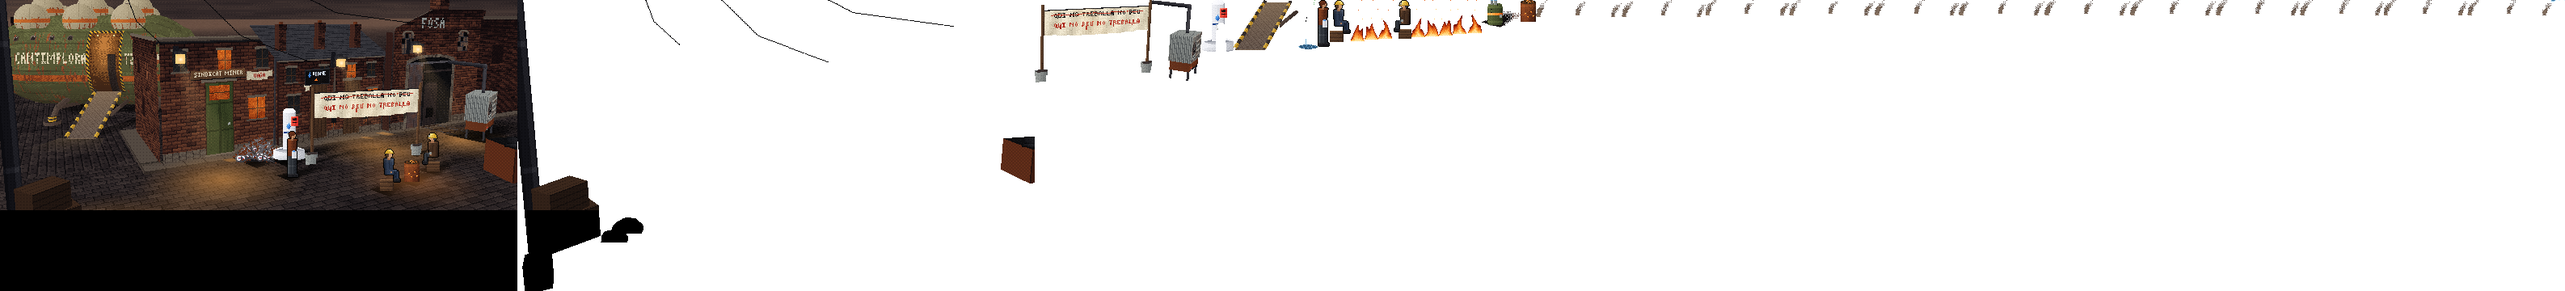
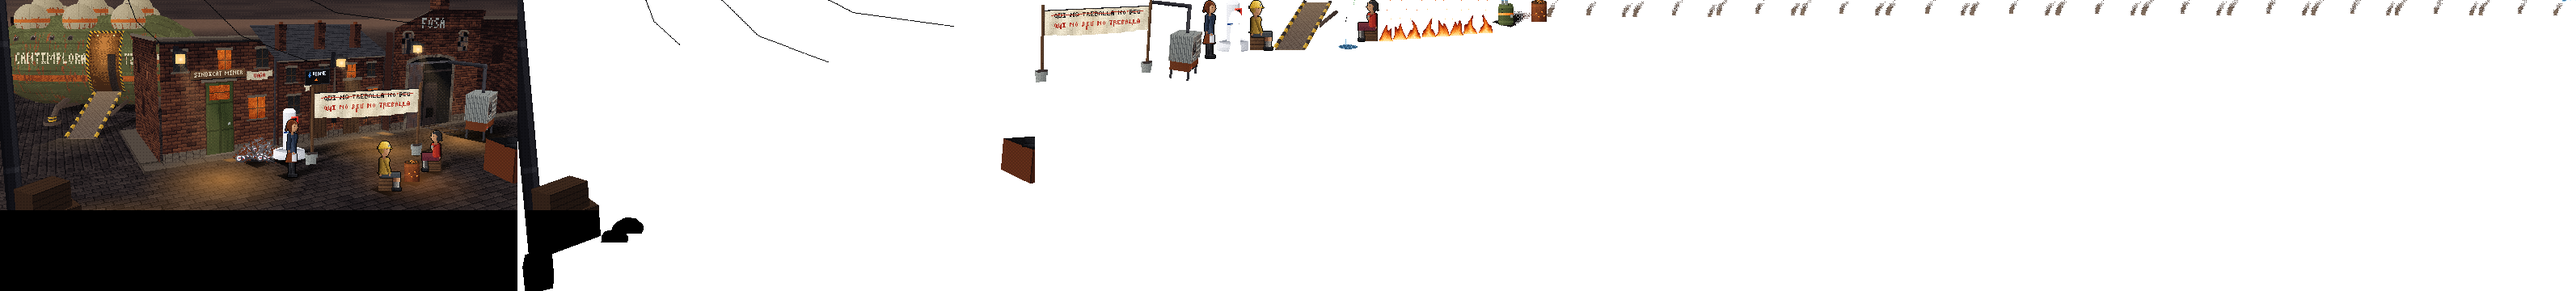
Aigua Verne: la canalla del piquet, redibuixada a la mida dels personatges
Les criatures del piquet (ferrum_carrer) es feien amb el miner_c vell a 54–58 px: semblaven miners en
miniatura al costat de l'Iri i la Rosa (≈98 px). Ara són persona_c de ferrum_gent (nen/nena) a ≈0,7 d'un
adult, amb el cap més gran i el cos prim, i persona sap seure (seated=True: el maluc al seient, les cuixes
endavant). Paràmetres nous cap i ample per a les proporcions; per defecte no canvia res (postcrèdits igual).

diff --git a/games/aigua-verne/adapters/benne/tools/hd640/rooms/ferrum_gent.py b/games/aigua-verne/adapters/benne/tools/hd640/rooms/ferrum_gent.py
@@ -41,13 +41,16 @@ _CABELL = (COAL, PLANKF, RUSTF, IRONF, MUSTARD)
 _PELL = (SKINF, SKINF, SKINF)
 
 
+SEIENT = 0.25                                                         # l'alçada d'una caixa per seure, per h
+
+
 def _row(cv, y, xa, xb, ramp, lvl):
     for x in range(int(round(xa)), int(round(xb)) + 1):
         cv.put(x, y, ramp, lvl(x) if callable(lvl) else lvl)
 
 
 def persona(cv, x, yf, h=80, facing=-1, var=0, tipus='miner', hold=None, light_from=1, casc=None, lamp=True,
-            cua=False, mocador=None):
+            cua=False, mocador=None, seated=False, cap=None, ample=None):
     s = h / 80.0
     f, lf = facing, light_from
     nen = tipus in ('nen', 'nena')
@@ -62,17 +65,20 @@ def persona(cv, x, yf, h=80, facing=-1, var=0, tipus='miner', hold=None, light_f
         u = (xx - cx) / max(1.0, half)
         return base + u * lf * 0.9 - (0.7 if u * lf < -0.8 else 0)
 
-    cap_h = h / (5.6 if nen else 7.4)
+    cap_h = h / (cap or (5.6 if nen else 7.4))                        # `cap`: quants caps fa d'alt
     head_rx, head_ry = cap_h * 0.40, cap_h * 0.5
-    top = yf - h
+    # assegut (en una caixa d'alçada SEIENT·h, amb els peus a terra a `yf`): el cos baixa fins que el maluc toca el
+    # seient; les cuixes van endavant, horitzontals, i les canyelles avall
+    drop = h * ((0.47 if not nen else 0.44) - SEIENT) if seated else 0.0
+    top = yf - h + drop
     lean = (2.2 * s if vell else 0.6 * s) * f                         # el vell, una mica corbat endavant
     hcx = x + lean * 1.4 + f * 0.6 * s
     hcy = top + head_ry
     neck_y = top + cap_h * 0.98
     sh_y = top + cap_h * 1.18                                         # les espatlles
-    hip_y = yf - h * (0.47 if not nen else 0.44)
+    hip_y = yf - h * (0.47 if not nen else 0.44) + drop
     knee_y = yf - h * 0.26
-    sw = h * (0.105 if not nen else 0.12)                             # mitja amplada de les espatlles (tres quarts)
+    sw = h * (ample or (0.105 if not nen else 0.12))                  # mitja amplada de les espatlles (tres quarts)
     if tipus == 'dona':
         sw *= 0.88
     hw = sw * 0.78                                                    # mitja amplada dels malucs
@@ -80,7 +86,7 @@ def persona(cv, x, yf, h=80, facing=-1, var=0, tipus='miner', hold=None, light_f
     # ── les cames ──
     faldilla = tipus == 'dona' or tipus == 'nena'
     peu_dav = x + f * 1.6 * s                                         # la cama de davant, una mica avançada
-    for k, lx in ((1, x - f * 2.6 * s), (0, peu_dav + f * 0.8 * s)):  # primer la del darrere
+    for k, lx in (() if seated else ((1, x - f * 2.6 * s), (0, peu_dav + f * 0.8 * s))):  # primer la del darrere
         for yy in range(int(hip_y), int(yf - 2.5 * s) + 1):
             t = (yy - hip_y) / max(1.0, yf - hip_y)
             w = (3.5 - 1.6 * t) * s if not (nen and tipus == 'nen' and yy > knee_y - 3 * s) else 1.7 * s
@@ -99,8 +105,11 @@ def persona(cv, x, yf, h=80, facing=-1, var=0, tipus='miner', hold=None, light_f
             a, b = cx - 2.4 * s - max(0, -f) * 2.6 * s, cx + 2.4 * s + max(0, f) * 2.6 * s
             _row(cv, yy, a, b, COAL, lambda xx: 2.0 + (1.0 if yy == int(yf - 2.5 * s) else 0) - k * 0.6)
 
+    if seated:
+        _cames_assegut(cv, x, yf, hip_y, h, s, f, tipus, var, baix, skin, sh)
+
     # ── la faldilla (les dones fins al turmell, les nenes fins als genolls) ──
-    if faldilla:
+    if faldilla and not seated:
         y1 = yf - (5 * s if tipus == 'dona' else h * 0.24)
         for yy in range(int(hip_y - 4 * s), int(y1) + 1):
             t = (yy - hip_y) / max(1.0, y1 - hip_y)
@@ -116,7 +125,9 @@ def persona(cv, x, yf, h=80, facing=-1, var=0, tipus='miner', hold=None, light_f
     # ── el tors ──
     bot = hip_y + (h * 0.07 if tipus in ('miner', 'nen') else h * 0.02)    # la jaqueta tapa el maluc
     if vell:
-        bot = knee_y - 2 * s                                          # l'abric, fins sota el genoll
+        bot = knee_y - 2 * s
+    if seated:
+        bot = min(bot, hip_y - 1.5 * s)                               # assegut, la jaqueta no tapa la cuixa                                          # l'abric, fins sota el genoll
     for yy in range(int(sh_y), int(bot) + 1):
         t = (yy - sh_y) / max(1.0, hip_y - sh_y)
         if t < 0.12:                                                  # les espatlles, arrodonides
@@ -156,10 +167,14 @@ def persona(cv, x, yf, h=80, facing=-1, var=0, tipus='miner', hold=None, light_f
     # el braç del darrere (del costat contrari a on mira), quasi tot amagat
     brac(1, x - f * sw * 0.55 + lean, x - f * sw * 0.7, hip_y - 1 * s, jack)
     # el de davant
-    if hold == 'bidon':
+    if hold == 'bidon' and seated:
+        hx, hy = x + f * h * 0.14, hip_y - 4 * s
+    elif hold == 'bidon':
         hx, hy = x + f * sw * 0.45 + lean * 0.3, hip_y + 2 * s
     elif hold == 'got':
         hx, hy = x + f * sw * 0.9 + lean, sh_y + 9 * s
+    elif seated:                                                      # la mà, sobre la cuixa
+        hx, hy = x + f * h * 0.11, hip_y - 1.5 * s
     elif hold == 'butxaca':
         hx, hy = x + f * sw * 0.2, hip_y - 2 * s
     else:
@@ -255,6 +270,43 @@ def persona(cv, x, yf, h=80, facing=-1, var=0, tipus='miner', hold=None, light_f
         cv.disc(hcx - f * head_rx * 0.1, cy, head_rx * 1.12, head_ry * 0.45, JACK if vell else jack,
                 lambda nx, ny: 2.2 + nx * lf * 0.7 - ny * 0.4)
         _row(cv, int(cy + head_ry * 0.3), hcx, hcx + f * head_rx * 1.45, COAL, 2.0)
+
+
+def _cames_assegut(cv, x, yf, hip_y, h, s, f, tipus, var, baix, skin, sh):
+    """Les cames d'algú assegut, de tres quarts: la cuixa endavant (horitzontal), el genoll, la canyella avall i la
+    sabata a terra. Primer la del darrere (més fosca i una mica enrere)."""
+    thigh = h * 0.24
+    for k, dx in ((1, -f * 2.2 * s), (0, f * 0.6 * s)):
+        kx = x + f * thigh + dx                                       # el genoll
+        # la canyella: del genoll a terra, una mica enrere (els peus sota el genoll)
+        sx = kx - f * 1.2 * s
+        for yy in range(int(hip_y), int(yf - 2.5 * s) + 1):
+            t = (yy - hip_y) / max(1.0, yf - hip_y)
+            w = (2.9 - 0.9 * t) * s
+            cx = kx + (sx - kx) * t
+            if tipus == 'nena':
+                ramp, lvl = (GREYH, 2.0) if var % 2 else (COAL, 2.6)
+            elif tipus == 'nen':                                      # pantalons curts: el genoll i el mitjó
+                ramp = GREYH if t > 0.45 else skin
+                lvl = 2.6 if ramp is GREYH else 3.2
+            else:
+                ramp, lvl = baix, 2.2
+            _row(cv, yy, cx - w, cx + w, ramp, lambda xx, cx=cx, w=w, lvl=lvl: sh(xx, cx, w, lvl - k * 0.8))
+        for yy in range(int(yf - 2.5 * s), int(yf) + 1):              # la sabata, la punta endavant
+            a, b = sx - 2.4 * s - max(0, -f) * 2.6 * s, sx + 2.4 * s + max(0, f) * 2.6 * s
+            _row(cv, yy, a, b, COAL, lambda xx: 2.0 + (1.0 if yy == int(yf - 2.5 * s) else 0) - k * 0.6)
+        # la cuixa: del maluc al genoll, horitzontal (la de davant tapa la del darrere)
+        ramp = baix
+        for yy in range(int(hip_y - 3.6 * s), int(hip_y + 2.6 * s) + 1):
+            a, b = sorted((x - f * 2.5 * s + dx, kx + f * 2.4 * s))
+            top_ = yy < hip_y - 2.4 * s
+            _row(cv, yy, a, b, ramp, lambda xx: 2.6 + (0.7 if top_ else 0) - (0.6 if yy > hip_y + 1.6 * s else 0)
+                 - k * 0.8 + (xx - x) * f * 0.03)
+    if tipus == 'nena':                                               # el vestit, sobre la falda i fins al genoll
+        for yy in range(int(hip_y - 8 * s), int(hip_y + 3.4 * s) + 1):
+            a, b = sorted((x - f * 4 * s, x + f * (thigh + 3.4 * s)))
+            _row(cv, yy, a, b, baix, lambda xx: 2.6 + (0.6 if yy < hip_y - 2.6 * s else 0)
+                 - (0.6 if int(xx) % 5 == 0 and yy > hip_y else 0))
 
 
 def persona_c(cv, *a, **kw):

diff --git a/games/aigua-verne/adapters/benne/tools/hd640/rooms/ferrum_carrer_pla_comu.py b/games/aigua-verne/adapters/benne/tools/hd640/rooms/ferrum_carrer_pla_comu.py
@@ -24,7 +24,8 @@ from hd640.rooms.ferrum_comu import (
     RH, SMOG, HAZE, SLAGF, SOOT, MORTAR, COB, COAL, IRONF, RUSTF, TIN, PLANKF, WHITEV, BLUEV, REDV, BLACKT, LED,
     FIREF, GLOWF, CLOTH, REDP, WATER, HELM, WARMG,
     smog_sky, canonada, far_skyline, brick_wall, brick_lvl, soot_top, window, cobbles, panell, font_verne,
-    pila_comptadors, miner, smoke_frames, chimney, qtext, miner_c)
+    pila_comptadors, smoke_frames, chimney, qtext)
+from hd640.rooms.ferrum_gent import persona_c
 
 Canvas1x = Canvas                 # (llenços auxiliars en píxels de sala: figures, textos)
 
@@ -463,12 +464,14 @@ def caixa(cv, x0, y0, x1, y1, seed=0):
 
 def canalla(cv):
     """La canalla del piquet, asseguda vora el foc (figures de fons)."""
-    caixa(cv, 216, 214, 232, 226, 1)
-    miner_c(cv, 226, 216, h=54, facing=1, var=1, kid=True, seated=True, light_from=1, lamp=False)
-    caixa(cv, 270, 216, 286, 228, 2)
-    miner_c(cv, 278, 218, h=56, facing=-1, var=3, kid=True, seated=True, light_from=-1, hold='got')
+    # criatures de 8–10 anys a la mida dels personatges (un adult fa ≈98): ≈0,7 d'alt, el cap gran i el cos prim
+    kw = dict(cap=4.6, ample=0.085)
+    caixa(cv, 214, 209, 234, 226, 1)
+    persona_c(cv, 220, 226, h=68, facing=1, var=1, tipus='nen', seated=True, light_from=1, **kw)
+    caixa(cv, 272, 211, 292, 228, 2)
+    persona_c(cv, 286, 228, h=66, facing=-1, var=3, tipus='nena', seated=True, light_from=-1, hold='got', **kw)
     # una nena dreta, amb una garrafa buida, mirant la font
-    miner_c(cv, 302, 222, h=58, facing=1, var=2, kid=True, light_from=-1, hold='bidon', lamp=False)
+    persona_c(cv, 308, 222, h=72, facing=1, var=2, tipus='nena', light_from=-1, hold='bidon', **kw)
 
 
 # ─── El terra, les ombres ──────────────────────────────────────────────────

diff --git a/games/aigua-verne/adapters/benne/tools/hd640/rooms/ferrum_carrer.py b/games/aigua-verne/adapters/benne/tools/hd640/rooms/ferrum_carrer.py
@@ -374,7 +374,7 @@ def piquet(e, tex):
     e.quad('pancarta', A, B, (B[0], yb, B[2]), (A[0], yb, A[2]), tex=(T['pancarta'], (x0f, 126, x1f, 218)),
            dues_cares=True)
     # la canalla, en caixes, i el bidó
-    peus = ((206, 160, 244, 229, 224, 226), (258, 160, 296, 231, 278, 228), (292, 160, 314, 225, 302, 222))
+    peus = ((204, 140, 242, 229, 224, 226), (262, 140, 298, 231, 282, 228), (298, 140, 320, 225, 308, 222))
     for i, ((nx, nz), (x0, y0, x1, y1, fx, fy)) in enumerate(zip(NENS, peus)):
         e.sprite(f'nen{i}', T['canalla'].crop((x0, y0, x1, y1)), (fx - x0, fy - y0), (nx, 0, nz), escala_img=KP)
     e.sprite('bido', T['bido'].crop((236, 192, 268, 227)), (16, 32), (BIDO[0], 0, BIDO[1]), escala_img=KP)
